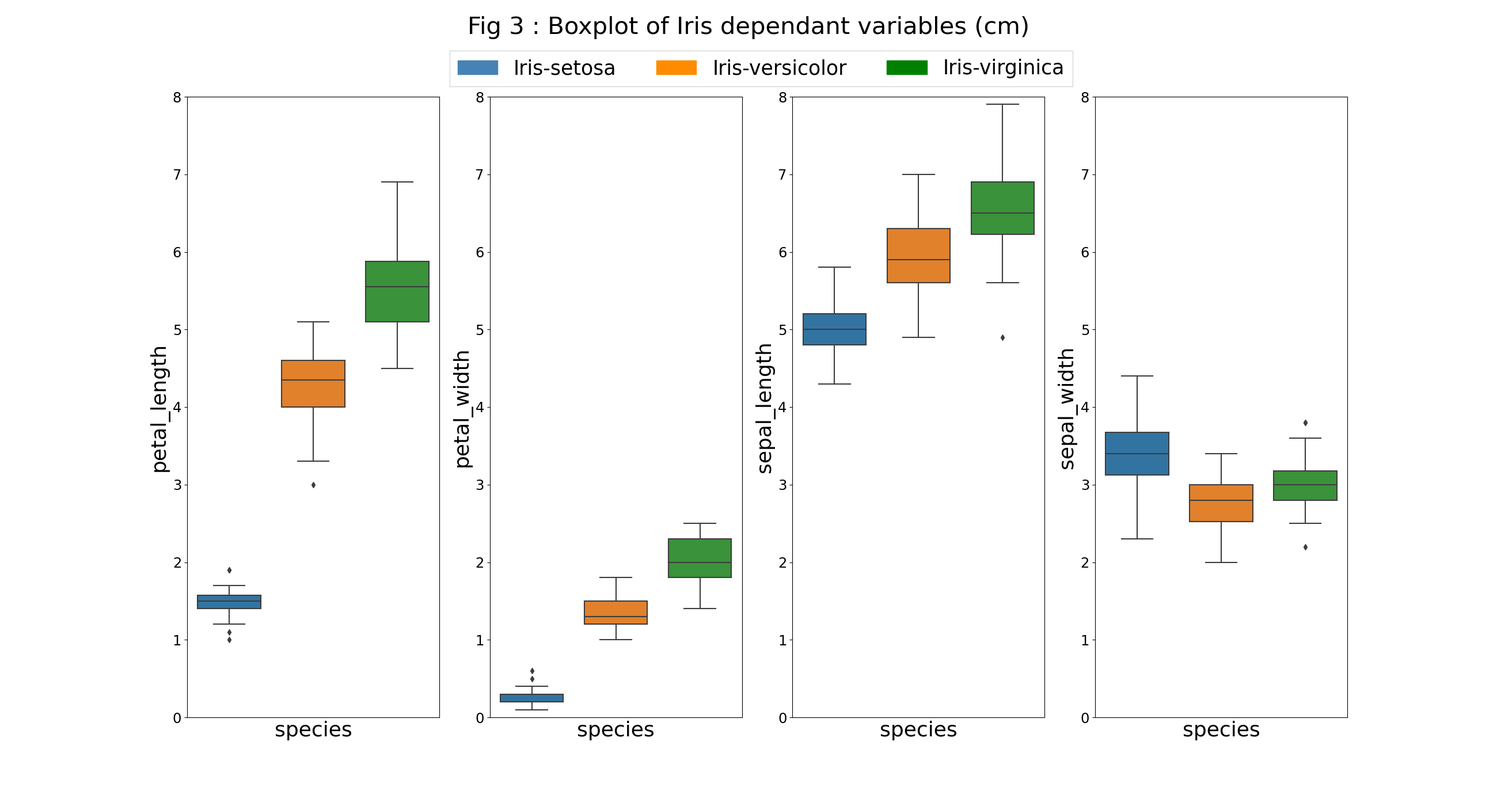
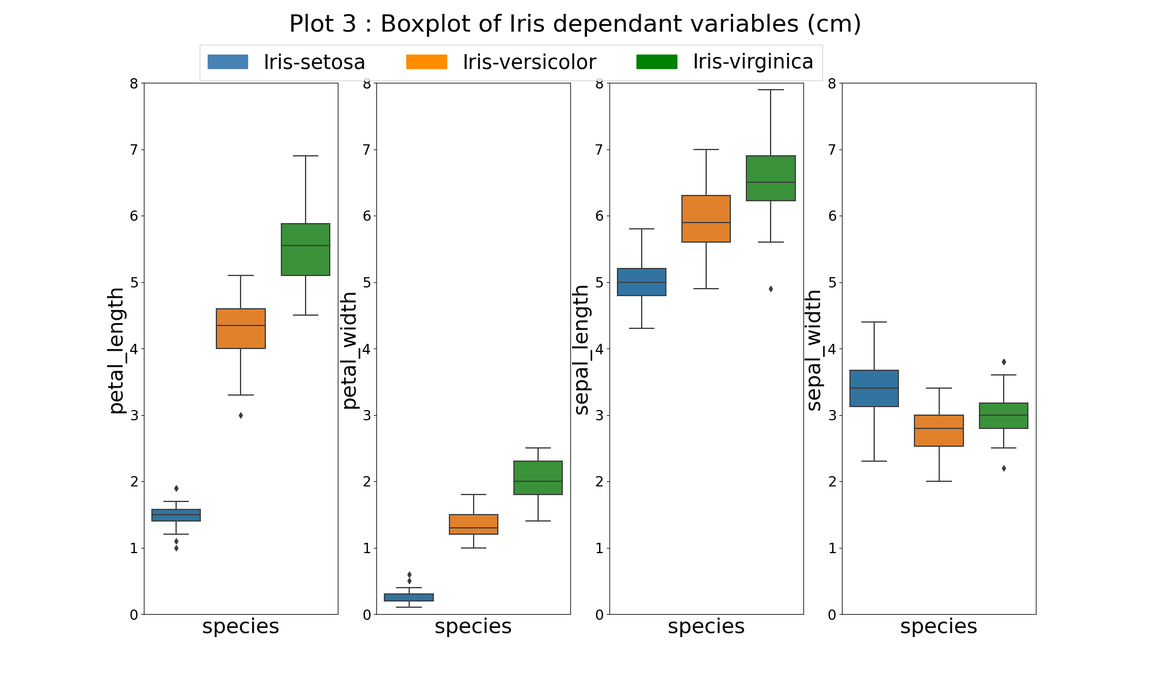
README update:  text update

diff --git a/analysis.py b/analysis.py
@@ -118,7 +118,7 @@ def plot_histograms_multi(filename, plot_name, chart_title, x_series_one, x_seri
 # [2] Waskom, M, 2021, seaborn.boxplot, viewed 21 April 2021, https://seaborn.pydata.org/generated/seaborn.boxplot.html.
 def plot_boxplot():
     plt.clf() 
-    fig, axes = plt.subplots(1,4, figsize=(26, 14)) 
+    fig, axes = plt.subplots(1,4, figsize=(20, 12)) 
 
     sns.boxplot(ax=axes[0], x = iris_df["species"], y = iris_df["petal_length"], data = iris_df, width=0.75)
     sns.boxplot(ax=axes[1], x=iris_df["species"], y=iris_df["petal_width"], data = iris_df, width=0.75)
@@ -138,7 +138,7 @@ def plot_boxplot():
               handles=[setosa, versi, virgi], bbox_to_anchor=(-0.05, 1.09),
               fancybox=False, shadow=False, ncol=3, loc='upper right', fontsize = 25)
     
-    fig.suptitle('Fig 3 : Boxplot of Iris dependant variables (cm)', fontsize = 30) 
+    fig.suptitle('Plot 3 : Boxplot of Iris dependant variables (cm)', fontsize = 30) 
     
     for ax in plt.gcf().axes:  
         x = ax.get_xlabel()

diff --git a/README.md b/README.md
@@ -56,7 +56,7 @@ The projects main aims are to achieve the following through incremental progress
 ### 2. Background
 **2.1 Describing the Data Set**
 
-The iris dataset is widely recognised in the field of data analytics as being a relatively small dataset of which non-trivial deductions can be made. The dataset is comprised of 150 observations (rows of data) and 5 attributes (columns of data). The attributes contain data on the iris petal / sepal dimensions across three even species samples (50 rows each)[<!--- UC Irvine Machine Learning Repository --->]. 
+The iris dataset is widely recognised in the field of data analytics as being a relatively small dataset of which non-trivial deductions can be made. The dataset is comprised of 150 observations (rows of data) and 5 attributes (columns of data). The attributes contain data on the iris petal / sepal dimensions across three even species samples (50 rows each)[18]. 
 In summary, each row of data pertains to a single observation across the four listed anatomical dimensional attributes for a given species of iris.
 
 &nbsp;**Dataset Attributes:**
@@ -70,34 +70,34 @@ In summary, each row of data pertains to a single observation across the four li
 
 | <img src="Images/fig1_iris_species.jpg"  width="600"/>|
 |----------|
-| Fig 1. Iris Species [<!--- Dynatrace, 2021 --->]|
+| Fig 1. Iris Species [6]|
 
 <br/>
 <br/>
 
 **2.2 History of the Iris Data Set**
 
-The iris data set observations were collected at the Gaspé Peninsula by a botanist named Edgar Anderson [ <!--- Cui 2020 --->]. Born in 1897 in New York, he made many contributions to botanical genetics. He worked alongside a successful scientist named Ronald Fisher, who would explore the dataset using statistical techniques that are widely used today.<br/>
+The iris data set observations were collected at the Gaspé Peninsula by a botanist named Edgar Anderson [4]. Born in 1897 in New York, he made many contributions to botanical genetics. He worked alongside a successful scientist named Ronald Fisher, who would explore the dataset using statistical techniques that are widely used today.<br/>
 <br/>     
-Ronald Fisher was an accomplished statistician and geneticist, born in 1890 in London and a pioneer in applying statistical procedures to the design of experiments [<!-- Jain  2011 -->]. According to Hald (1998, as cited in Fernandes, 2016) ,“Fisher was a genius who almost single-handedly, created the foundations for modern statistical science” . In 1936, with Edgar’s consent, Fisher published a famous paper titled “the Use of Multiple Measurements in Taxonomic Problems” that explored a linear function to distinguish between iris species based on their morphology [ <!--- Cui 2020 --->]. The paper shows how fisher explored classification of different species through Linear Discrimination Analysis on the multivariate data set. Based on his contributions, the iris dataset is commonly referred to as the Fisher iris data set.
+Ronald Fisher was an accomplished statistician and geneticist, born in 1890 in London and a pioneer in applying statistical procedures to the design of experiments [11]. According to Hald (1998, as cited in Fernandes, 2016) ,“Fisher was a genius who almost single-handedly, created the foundations for modern statistical science” . In 1936, with Edgar’s consent, Fisher published a famous paper titled “the Use of Multiple Measurements in Taxonomic Problems” that explored a linear function to distinguish between iris species based on their morphology [4]. The paper shows how fisher explored classification of different species through Linear Discrimination Analysis on the multivariate data set. Based on his contributions, the iris dataset is commonly referred to as the Fisher iris data set.
 <br/>
 
 | <img src="Images/fig2_ronald_fisher.jpg"  width="250"/>|
 |----------|
-| Fig 2. Ronald Fisher [<!--- fisher image--->]|
+| Fig 2. Ronald Fisher [20]|
 
 <br/>
 <br/>
 
 **2.3 Linear Discriminant Analysis and Machine learning**<br/>
 
-Today LDA is a generalization of Fishers Linear discriminant, labelled as a supervised classification method that has the potential to separate two or more classes [Gonzalez, J, 2018] (species in the case of Iris data set). As detailed by Gonzalez (2018), the separation algorithm works by a reduction technique where the data is projected onto a lower-dimensional space, while retaining the class-discriminatory information. Although this reduction technique allows for linear classification it is important to note that the model does have two underlying assumptions [2]:
+Today LDA is a generalization of Fishers Linear discriminant, labelled as a supervised classification method that has the potential to separate two or more classes [9] (species in the case of Iris data set). As detailed by Gonzalez (2018), the separation algorithm works by a reduction technique where the data is projected onto a lower-dimensional space, while retaining the class-discriminatory information. Although this reduction technique allows for linear classification it is important to note that the model does have two underlying assumptions [2]:
 1.	The data distribution is Gaussian, i.e is shaped like a bell curve.
 2.	Each class has the same covariance matrix.
 
-This model’s first assumption can be successfully applied to many data sets as Gaussian distributions appear regularly in the real-world data. This was explained well by Sharma (2019) where he described how larger data sets with finite variances and independent feature probabilities will have a data distribution that favours the bell curve shape [Sharma, R, 2019]. When considering the second assumption it its important to note that covariance indicates the direction of the linear relationship between variables [Janakiev, N, 2018] and is used as a measure of how two random variables vary together. If one assumes that each species in the Iris data set has the same covariance matrix, they assume that the linear correlation between randomly selected variables in a given species is equal for the same variables in all other species. 
+This model’s first assumption can be successfully applied to many data sets as Gaussian distributions appear regularly in the real-world data. This was explained well by Sharma (2019) where he described how larger data sets with finite variances and independent feature probabilities will have a data distribution that favours the bell curve shape [15]. When considering the second assumption it its important to note that covariance indicates the direction of the linear relationship between variables [12] and is used as a measure of how two random variables vary together. If one assumes that each species in the Iris data set has the same covariance matrix, they assume that the linear correlation between randomly selected variables in a given species is equal for the same variables in all other species. 
 
-It is important to understand the implications of choosing a particular model and the potential for inaccurate results if the model assumptions are not representative of the data set. Today the advances in Machine Learning provides us an opportunity to test and alter multiple data analysis library models to our needs. As described by Wakefield (2018), “machine learning uses programmed algorithms that receive and analyze input data to predict output values within an acceptable range. As new data is fed to these algorithms, they learn and optimize their operations to improve performance, developing intelligence over time”. Machine learning is broken into two main categories, supervised and unsupervised which are explained in points 1 and 2 below:(Soni 2018).
+It is important to understand the implications of choosing a particular model and the potential for inaccurate results if the model assumptions are not representative of the data set. Today the advances in Machine Learning provides us an opportunity to test and alter multiple data analysis library models to our needs. As described by Wakefield (2018), “machine learning uses programmed algorithms that receive and analyze input data to predict output values within an acceptable range. As new data is fed to these algorithms, they learn and optimize their operations to improve performance, developing intelligence over time”. Machine learning is broken into two main categories, supervised and unsupervised which are explained in points 1 and 2 below [17].
 
 1.	Unsupervised learning deals with the inherent structure of the data without using labels, an example would be a clustering algorithm that can segregate datapoints into objects based on their relative distance to other datapoints. 
 2.	Supervised learning is typically used for classification problems, when one wants to map the inputs to a desired labelled output, or regression when one wants to map the input to a continuous output . 
@@ -119,12 +119,12 @@ This Section details the downloads, modules, tools, libraries and dependencies f
 - Python 3.8.5 was used as the programming language for this data analysis project. <br/>
   - Downloaded here: **<https://www.python.org/downloads/>**.
 
-- Anacondas 3 version 3 was downloaded (version 2020.11) for its many useful libraries included in the package. <br/>
+- Anacondas 3 (version 2020.11) was downloaded for its many useful libraries included in the package. <br/>
   - Download here **<https://docs.anaconda.com/anaconda/install/>**.<br/>
     See figure 3 for Anacondas 3 libraries used and their version numbers: <br/>
 
 
-| <img src="Images/fig3_library_version.png"  width="250"/>|
+| <img src="Images/fig3_library_version.png"  width="350"/>|
 |----------|
 | Fig 3. |
 
@@ -189,7 +189,7 @@ Having looked at the first 5 rows of the dataset assumptions were made that the 
 
 <br/>
 
-Pandas and Numpy work effectively together to help clean dataframes, for example the *isnull()* function is used to detect missing values in an array. This function returns a boolean object where missing values get mapped to True and non-missing values get mapped to False [GfG 2020 NaN]. It is possible to sum the True values from the boolean array by applying the *sum()* function to quickly check if a dataset has any null values. This operation was performed on the Iris dataframe and yielded no null values via the following syntax: *df.groupby('species').size()*, see the output of this operation in Fig. 6 below [FX*].<br/> 
+Pandas and Numpy work effectively together to help clean dataframes, for example the *isnull()* function is used to detect missing values in an array. This function returns a boolean object where missing values get mapped to True and non-missing values get mapped to False [8]. It is possible to sum the True values from the boolean array by applying the *sum()* function to quickly check if a dataset has any null values. This operation was performed on the Iris dataframe and yielded no null values via the following syntax: *df.groupby('species').size()*, see the output of this operation in Fig. 6 below [FX*].<br/> 
 
 <br/>
 
@@ -210,21 +210,21 @@ __Histogram Analysis__<br/>
 Histograms are considered simple plots but can give very useful visualisations on the distribution of the data. To gain more insight into the Iris data a histogram of each feature (i.e dependant variable) was plotted [F1*]. Each dependent variable has two plots, one consists of the variables with no grouping (blue plots) and the second consists of the variables grouped by species (multi-coloured plots), see Plot 1 below for petal variable plots.
 
 <br/>
- <!--- Plot 1 --->
+ 
 <p align="center">
   <img src="Images/plot1_histograms_petals.png" width="675" /> 
 </p>  
 
 <br/>
 
-- __Un-grouped Petal Data__: Looking at the density plots of the blue histograms in Plot 1 it becomes apparent that although the petal length and width distribution curves do have a degree of symmetry, they do not exhibit the bell curve “normal” distribution. These distributions instead, are typically referred to as bimodal as there is two local maximums present [Ye 2020]. This distribution often occurs when there is more than one population or class present in the data. In light of this the data was grouped by species using the Seaborn library's grouping variable called “hue”, which seperated the histogram into its three individual species classes. <br/>
+- __Un-grouped Petal Data__: Looking at the density plots of the blue histograms in Plot 1 it becomes apparent that although the petal length and width distribution curves do have a degree of symmetry, they do not exhibit the bell curve “normal” distribution. These distributions instead, are typically referred to as bimodal as there is two local maximums present [21]. This distribution often occurs when there is more than one population or class present in the data. In light of this the data was grouped by species using the Seaborn library's grouping variable called “hue”, which seperated the histogram into its three individual species classes. <br/>
 
 <br/>
 
 - __Grouped Petal Data__: The grouped histograms for petal length and petal width clearly show that for these features the Setosa species is well separated from Versicolor and Virginica. It was also noted that petal width and petal length showed a degree of separation between the versicolor and virginica species, with more overlap of probability densities apparent when looking at petal length. Based on these observations one could speculate that the petal attributes could play an important role in any attempt to classify the setosa class through any supervised machine learning model. See Plot 2 below for sepal feature histograms.
 
 <br/>
- <!--- Plot 2 --->
+
 <p align="center">
   <img src="Images/plot2_histograms_sepals.png" width="675" />
 </p>  
@@ -232,7 +232,7 @@ Histograms are considered simple plots but can give very useful visualisations o
 <br/>
 
 - __Sepal Data__: 
-The un-grouped sepal variable histograms (blue) do show a guassian like distribution curve. On further breakdown of the plots into their species (multicoloured) it became apparent that there is significant overlapping of data between the Versicolor and Virginica species for both the sepal length and sepal width features, however the Setosa does show some seperation.  <!--- Due to serpation observed one could assume that a machine learning model could seperate Setosa from the other two species with a relatively high degree of accuracy.--->
+The un-grouped sepal variable histograms (blue) do show a guassian like distribution curve. On further breakdown of the plots into their species (multicoloured) it became apparent that there is significant overlapping of data between the Versicolor and Virginica species for both the sepal length and sepal width features, however the Setosa does show some seperation.  
 
 <br/>
 
@@ -257,7 +257,7 @@ The pandas *describe()* function is a very useful statistical summary method tha
 
 | <img src="Images/fig9_summary_traits.png"  width="525"/>|
 |----------|
-| Fig 98.|
+| Fig 9.|
 
 <br/>
 
@@ -283,7 +283,7 @@ In addition to the histogram already performed it was considered necessary to vi
 
 
 <br/>
- <!--- Plot 3 --->
+
 <img src="Images/plot3_box_plots.png"  width="1200"/> 
 
 The following observations were drawn from Plot 3:
@@ -300,10 +300,10 @@ The following observations were drawn from Plot 3:
 
 __3.2.4 Correlation Analysis__<br/>
 
-To better understand any potential relationships between the variables in the dataset a scatter plot was generated comparing all iris fearures agaisnt eachother (see plot 4 below). It is important to discover and quantify the degree to which variabeles are depenadnt on eachother [4]. Brownlee 2018 then goes on to explain how a better understanding of variable correlation can help you perpare your data for use in machine learning algorithms.
+To better understand any potential relationships between the variables in the dataset a scatter plot was generated comparing all iris fearures agaisnt eachother (see plot 4 below). It is important to discover and quantify the degree to which variabeles are depenadnt on eachother [3]. Brownlee 2018 then goes on to explain how a better understanding of variable correlation can help you perpare your data for use in machine learning algorithms.
 
 <br/>
- <!--- Plot 4 --->
+
 <p align="center">
   <img src="Images/plot4_scatter_plots.png" width="1100" />
 </p> 
@@ -339,30 +339,30 @@ One aim of this project was gain a basic understanding of Machine Learning. With
 
 <br/>
 
-The k-nearest neighbors (KNN) algorithm is a simple, supervised machine learning algorithm that can be used to solve both classification and regression problems [Harrison 2018]. As described by Harrison 2018 the model works by finding the distances between a query and all the examples in the data, selecting the specified number examples (K) closest to the query. When used for classification purposes the algorithm then votes for the most frequent label when applied. Although this model does not analyse features seperately one can imageine how multi-collinearity could effect model performance as independant variables data point get closer to eachother which may to perforamce issues.
+The k-nearest neighbors (KNN) algorithm is a simple, supervised machine learning algorithm that can be used to solve both classification and regression problems [10]. As described by Harrison 2018 the model works by finding the distances between a query and all the examples in the data, selecting the specified number examples (K) closest to the query. When used for classification purposes the algorithm then votes for the most frequent label when applied. Although this model does not analyse features seperately one can imageine how multi-collinearity could effect model performance as independant variables data point get closer to eachother which may to perforamce issues.
 
 <br/>
 
-In an attempt to better understand how feature selection can impact the KNN model performance the Exhaustive Feature Selector (EFS) wrapper method was used to evaluate the model performance across all possible combinations of features in the dataset. An initial value of K = 3 was selected, with the aim to test more k values thereafter. A cross validation value of 10 was selected as this value has been found through experimentation to generally result in low bias (i.e the datset will be divded into 10 parts for testing / training purposes) [FX*]. Note: Altough EFS slows model performance (Malik 2021), it was still used for investigation purposes).
+In an attempt to better understand how feature selection can impact the KNN model performance the Exhaustive Feature Selector (EFS) wrapper method was used to evaluate the model performance across all possible combinations of features in the dataset. An initial value of K = 3 was selected, with the aim to test more k values thereafter. A cross validation value of 10 was selected as this value has been found through experimentation to generally result in low bias (i.e the datset will be divded into 10 parts for testing / training purposes) [FX*]. Note: Altough EFS slows model performance [13], it was still used for investigation purposes).
 
 <br/>
 
- <img src="Images/plot5_knn_model_k_single.png"  width="1100"/>|
+ <img src="Images/plot5_knn_model_k_single.png"  width="1100"/>
 
 <br/>
 
 The results from plot 5 are very interesting. The petal features overall performed worse at prediciting the Iris species, while the sepal dimensions performed better. There appears to be a link with variables having high correlation and a reduced ability to make accurate model predictions. This would make sense as the more correlated variables are, the harder it would be to alter their dimension without altering another variable in a similar way. 
 
-To add to this, the model performed best when the variable with the highest degree of correlation was dropped (petal width) and worst when the most highly correlated variable (petal width) was used to solely train the model. To help  explain this a new histogram was prepared with all featured on the one plot and it was confirmed that the petal width overalapped more with other features, sepal width on the otherhand appeared to overlap less with other features( See Plot 6). This observation would help justify why for example sepal width would perform better than sepal length when the features were independantly used to train the KNN model.
+To add to this, the model performed best when the variable with the highest degree of correlation was dropped (petal width) and worst when the most highly correlated variable (petal width) was used to solely train the model. To help  explain this a new histogram was prepared with all features on the one plot and it was confirmed that the petal width overlapped more with other features, sepal width on the otherhand appeared to overlap less with other features (See Plot 6). This observation would help justify why for example sepal width would perform better than sepal length when the features were independantly used to train the KNN model.
 
 <br/>
 
- <img src="Images/plot6_histogram_allfeature.png"  width="1100"/>|
+ <img src="Images/plot6_histogram_allfeature.png"  width="600"/>|
 
 <br/>
 
 
-For the last part of this project the KNN model was expored in more detail in a similar fashion to Sanjay, M 2018. Interestingly he explored different k parameters being fed into the KNN algorigthm (via a for loop). This method was applied to the iris datset with all of its features. The data was split into two parts (20:80) for model testing and training respevtively. This functionality is possible using the *train_split_test* method of the *sklearn* library and allows one to estimate the performance of a model when it makes predictions on datasets that are not used to train the model. See plot 6 for output.
+For the last part of this project the KNN model was expored in more detail in a similar fashion to Sanjay, M 2018. Interestingly he explored different k parameters being fed into the KNN algorigthm (via a for loop). This method was applied to the iris datset with all of its features. The data was split into two parts (20:80) for model testing and training respectively. This functionality is possible using the *train_split_test* method of the *sklearn* library and allows one to estimate the performance of a model when it makes predictions on datasets that are not used to train the model. See plot 7 for output.
 
 <br/>
 
@@ -370,7 +370,7 @@ For the last part of this project the KNN model was expored in more detail in a 
 
  <br/>
 
- Based on the results from figure X the KNN loop yielded the highest accuracy at k = 4 and K = 6 to 25. This ability to predict species to 100% accuracy is impressive even for a small dataset such as the Fisher Iris Dataset. Considering KNN does not have any underlying data assumptions like that of Linear Discrimant Analysis or indeed many other algorithms, it clearly can have good applications in machine learning.
+ Based on the results from Plot 7 the KNN loop yielded the highest accuracy at k = 4 and K = 6 to 25. This ability to predict species to 100% accuracy is impressive even for a small dataset such as the Fisher Iris Dataset. Considering KNN does not have any underlying data assumptions like that of Linear Discrimant Analysis or indeed many other algorithms, it clearly can have good applications in machine learning.
 
 <br/>
 
@@ -378,26 +378,25 @@ For the last part of this project the KNN model was expored in more detail in a 
 
 [1]. Asaithambi, S, 2018, Why, How and When to apply Feature Selection, viewed 26 April 2021, **<https://towardsdatascience.com/why-how-and-when-to-apply-feature-selection-e9c69adfabf2>.** <br/>
 [2]. Brownlee, J, 2016, Linear discriminant analysis for Machine Learning, viewed 05 April 2021,<br/>**<https://machinelearningmastery.com/linear-discriminant-analysis-for-machine-learning/>.**<br/>
-[3]. Brownlee, J, 2018, A Gentle Introduction to k-fold Cross-Validation, viewed 27 April 2021,<br/> **<https://machinelearningmastery.com/k-fold-cross-validation/.>**.<br/>
-[4]. Brownlee, J, 2018, How to Calculate Correlation Between Variables in Python, viewed 23 April 2021,**<https://machinelearningmastery.com/how-to-use-correlation-to-understand-the-relationship-between-variables/>**.<br/>
-[5]. Cui, Y 2020, The Iris dataset – a little bit of history and biology, towards data science, viewed 26 Match 2021,**<https://towardsdatascience.com/the-iris-dataset-a-little-bit-of-history-and-biology-fb4812f5a7b5>.**<br/>
-[6]. Dan, A, 2022, Kurtosis() & Skew() Function In Pandas, medium.com, viewed 19 April 2021, **<https://medium.com/@atanudan/kurtosis-skew-function-in-pandas-aa63d72e20de>**.<br/>
-[7]. Dynatrace, 2021, [image], accessed 26 March 2021, **<https://www.pngkey.com/maxpic/u2q8t4w7q8w7u2u2/>.**<br/>
-[8]. Fernandes, M 2016, 'From Three Fishers: Statistician, Geneticist and Person to Only One Fisher: The Scientist', Journal of Biometrics & Biostatistics, vol. 7, no. 1, pp. 1, DOI: 10.4172/2155-6180.1000282.<br/>
-[9]. GeeksforGeeks, 2020, Count NaN or missing values in Pandas DataFrame, viewed 15 April 2021,**<https://www.geeksforgeeks.org/count-nan-or-missing-values-in-pandas-dataframe>.**<br/>
-[10]. Gonzalez, J, 2018, Using linear discriminant analysis (LDA) for data explore, viewed 31 March 2021,<br/>**<https://www.apsl.net/blog/2017/07/18/using-linear-discriminant-analysis-lda-data-explore-step-step/>.**<br/>
-[11]. Harrison, O, 2018, Machine Learning Basics with the K-Nearest Neighbors Algorithm, towards data science, viewed 26 april 2021, **<https://towardsdatascience.com/machine-learning-basics-with-the-k-nearest-neighbors-algorithm-6a6e71d01761>.**
-[12]. Jain, P, 2011, Sir Ronald Aylmer Fisher, Encyclopaedia Britannica, **<https://www.britannica.com/biography/Ronald-Aylmer-Fisher>.**<br/>
-[13]. Janakiev, N, 2018, Understanding the Covariance Matrix, viewed 31 March 2021, <br/>**<https://datascienceplus.com/understanding-the-covariance-matrix/>.**<br/>
-[14]. Malik, U, 2021, Applying Wrapper Methods in Python for Feature Selection, Stack Abuse, **<https://stackabuse.com/applying-wrapper-methods-in-python-for-feature-selection/>.**<br/>
-[15]. Moffitt, C, 2018, Overview of Pandas data types, Practical Business python, viewed 15 April 2021,**<https://pbpython.com/pandas_dtypes.html>**.<br/>
-[16]. Saha, S, 2018, Baffled by Covariance and Correlation??? Get the Math and the Application in Analytics for both the terms, towards data science, viewed 23 April 2021,**<https://towardsdatascience.com/let-us-understand-the-correlation-matrix-and-covariance-matrix-d42e6b643c22>.**<br/>
-[17]. Sharma, R, 2019, Gaussian distribution, viewed 31 March 2021,<br/>**<https://medium.com/ai-techsystems/gaussian-distribution-why-is-it-important-in-data-science-and-machine-learning-9adbe0e5f8ac>.**<br/>
-[18]. Solomon, B, 2021, Pandas GroupBy: Your Guide to Grouping Data in Python, RealPython, viewed 16 April 2021,**<https://realpython.com/pandas-groupby/#pandas-groupby-putting-it-all-together>**.<br/>
-[19]. Soni, D, 2018, Supervised Vs. unsupervised learning, towards data science, viewed 05 April 2021,<br/>**<https://towardsdatascience.com/supervised-vs-unsupervised-learning-14f68e32ea8d>.**<br/>
-[20]. UC Irvine Machine Learning Repository, 2021, Iris dataset, viewed 26 March 2021,<br/>**<https://archive.ics.uci.edu/ml/datasets/iris/>.**<br/>
-[21]. Wakefield, K. (2018). A guide to machine learning algorithms and their applications, viewed 05 April 2021, <br/>**<https://www.sas.com/en_ie/insights/articles/analytics/machine-learning-algorithms.html>**<br/>
-[22]. Wikipedia, 2021, [image], accessed: 28 March 2021, **<https://en.wikipedia.org/wiki/Ronald_Fisher#/media/File:Youngronaldfisher2.JPG>.**<br/>
-[23]. Ye, A, 2020, viewed 22 April 2021, All the distributions you need to know, towards data science, viewed 22 April 2021,<br/> **<https://towardsdatascience.com/all-the-distributions-you-need-to-know-ad570514987b>.**<br/>
+[3]. Brownlee, J, 2018, How to Calculate Correlation Between Variables in Python, viewed 23 April 2021,**<https://machinelearningmastery.com/how-to-use-correlation-to-understand-the-relationship-between-variables/>**.<br/>
+[4]. Cui, Y 2020, The Iris dataset – a little bit of history and biology, towards data science, viewed 26 Match 2021,**<https://towardsdatascience.com/the-iris-dataset-a-little-bit-of-history-and-biology-fb4812f5a7b5>.**<br/>
+[5]. Dan, A, 2022, Kurtosis() & Skew() Function In Pandas, medium.com, viewed 19 April 2021, **<https://medium.com/@atanudan/kurtosis-skew-function-in-pandas-aa63d72e20de>**.<br/>
+[6]. Dynatrace, 2021, [image], accessed 26 March 2021, **<https://www.pngkey.com/maxpic/u2q8t4w7q8w7u2u2/>.**<br/>
+[7]. Fernandes, M 2016, 'From Three Fishers: Statistician, Geneticist and Person to Only One Fisher: The Scientist', Journal of Biometrics & Biostatistics, vol. 7, no. 1, pp. 1, DOI: 10.4172/2155-6180.1000282.<br/>
+[8]. GeeksforGeeks, 2020, Count NaN or missing values in Pandas DataFrame, viewed 15 April 2021,**<https://www.geeksforgeeks.org/count-nan-or-missing-values-in-pandas-dataframe>.**<br/>
+[9]. Gonzalez, J, 2018, Using linear discriminant analysis (LDA) for data explore, viewed 31 March 2021,<br/>**<https://www.apsl.net/blog/2017/07/18/using-linear-discriminant-analysis-lda-data-explore-step-step/>.**<br/>
+[10].Harrison, O, 2018, Machine Learning Basics with the K-Nearest Neighbors Algorithm, towards data science, viewed 26 april 2021, **<https://towardsdatascience.com/machine-learning-basics-with-the-k-nearest-neighbors-algorithm-6a6e71d01761>.**
+[11]. Jain, P, 2011, Sir Ronald Aylmer Fisher, Encyclopaedia Britannica, **<https://www.britannica.com/biography/Ronald-Aylmer-Fisher>.**<br/>
+[12]. Janakiev, N, 2018, Understanding the Covariance Matrix, viewed 31 March 2021, <br/>**<https://datascienceplus.com/understanding-the-covariance-matrix/>.**<br/>
+[13]. Malik, U, 2021, Applying Wrapper Methods in Python for Feature Selection, Stack Abuse, **<https://stackabuse.com/applying-wrapper-methods-in-python-for-feature-selection/>.**<br/>
+[14]. Moffitt, C, 2018, Overview of Pandas data types, Practical Business python, viewed 15 April 2021,**<https://pbpython.com/pandas_dtypes.html>**.<br/>
+let-us-understand-the-correlation-matrix-and-covariance-matrix-d42e6b643c22>.**<br/>
+[15]. Sharma, R, 2019, Gaussian distribution, viewed 31 March 2021,<br/>**<https://medium.com/ai-techsystems/gaussian-distribution-why-is-it-important-in-data-science-and-machine-learning-9adbe0e5f8ac>.**<br/>
+[16]. Solomon, B, 2021, Pandas GroupBy: Your Guide to Grouping Data in Python, RealPython, viewed 16 April 2021,**<https://realpython.com/pandas-groupby/#pandas-groupby-putting-it-all-together>**.<br/>
+[17]. Soni, D, 2018, Supervised Vs. unsupervised learning, towards data science, viewed 05 April 2021,<br/>**<https://towardsdatascience.com/supervised-vs-unsupervised-learning-14f68e32ea8d>.**<br/>
+[18]. UC Irvine Machine Learning Repository, 2021, Iris dataset, viewed 26 March 2021,<br/>**<https://archive.ics.uci.edu/ml/datasets/iris/>.**<br/>
+[19]. Wakefield, K. (2018). A guide to machine learning algorithms and their applications, viewed 05 April 2021, <br/>**<https://www.sas.com/en_ie/insights/articles/analytics/machine-learning-algorithms.html>**<br/>
+[20]. Wikipedia, 2021, [image], accessed: 28 March 2021, **<https://en.wikipedia.org/wiki/Ronald_Fisher#/media/File:Youngronaldfisher2.JPG>.**<br/>
+[21]. Ye, A, 2020, viewed 22 April 2021, All the distributions you need to know, towards data science, viewed 22 April 2021,<br/> **<https://towardsdatascience.com/all-the-distributions-you-need-to-know-ad570514987b>.**<br/>
 
 
